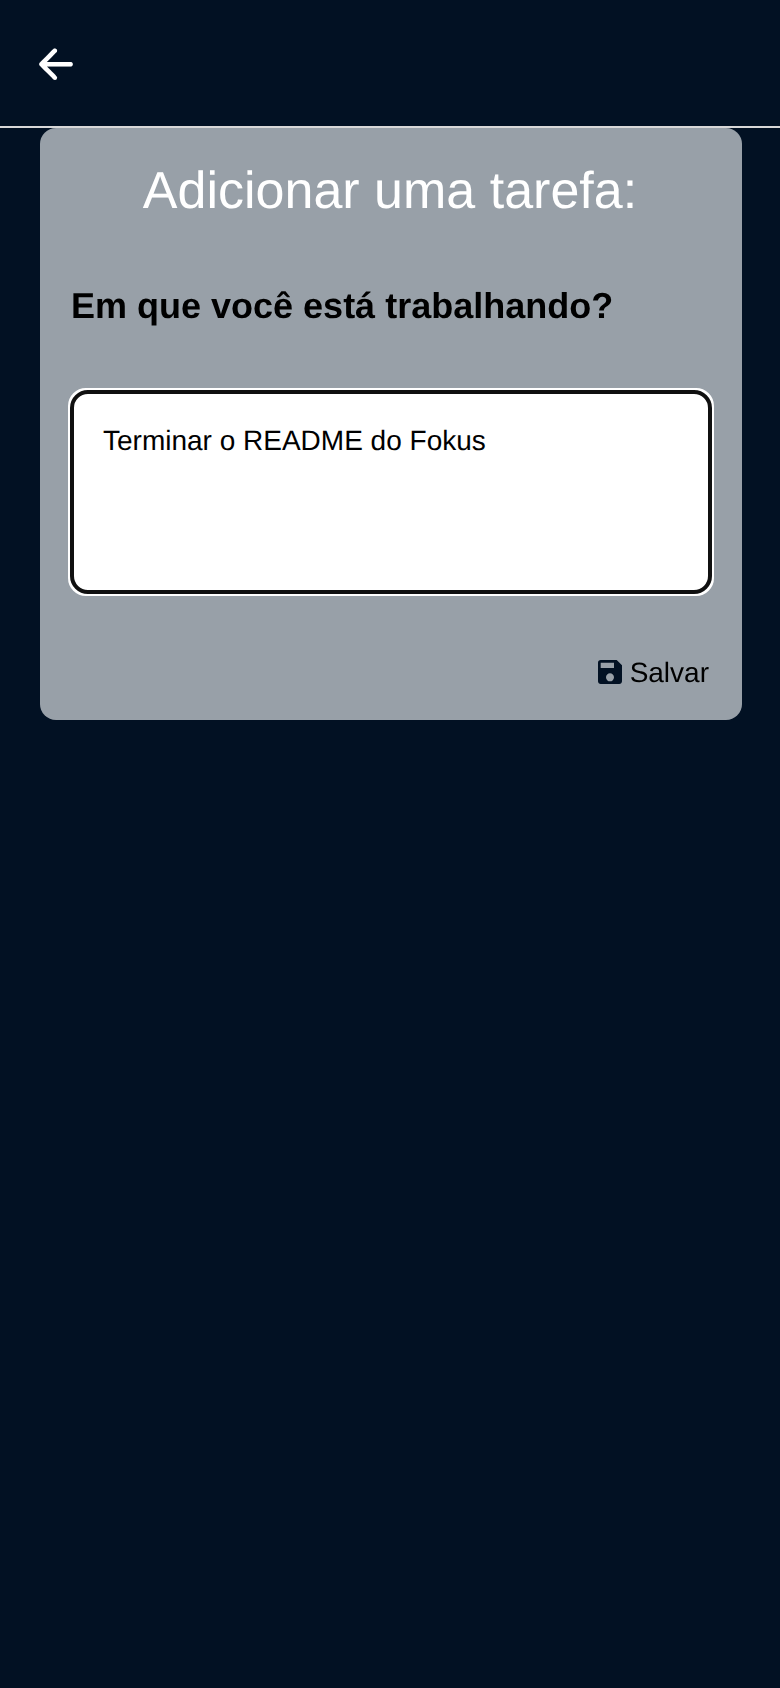
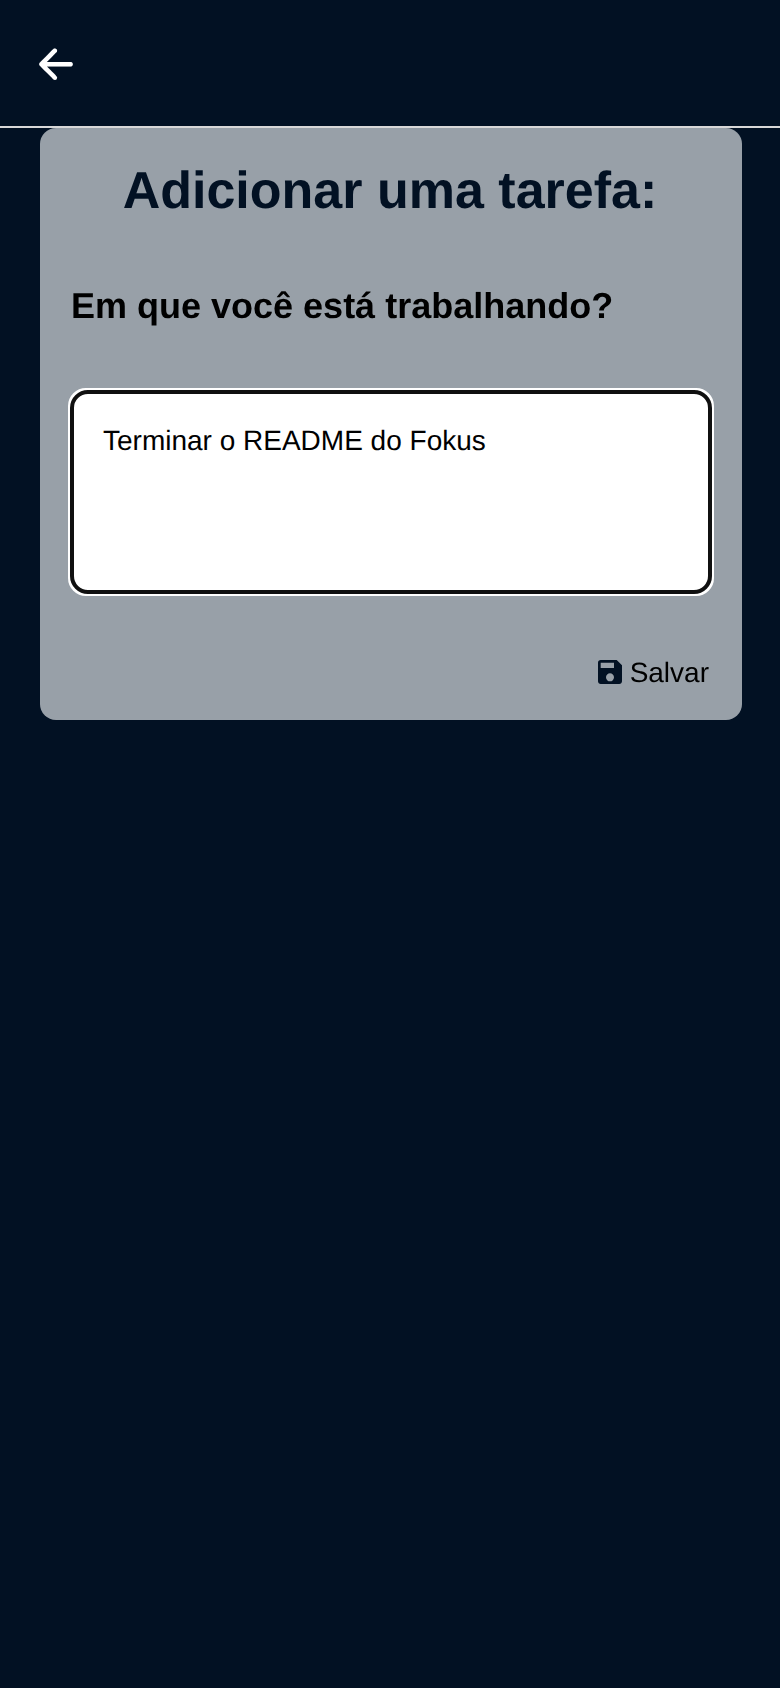
Improve form title contrast
The white title on the gray form card was hard to read; use the dark
background color in bold instead and refresh the README screenshot.

Changed region(s): [[0.1538, 0.0924, 0.8308, 0.1232]]

diff --git a/components/FormTask/index.jsx b/components/FormTask/index.jsx
@@ -62,9 +62,10 @@ const styles = StyleSheet.create({
     alignItems: "center",
   },
   text: {
-    color: colors.surfaceLight,
+    color: colors.background,
     textAlign: "center",
     fontSize: fontSizes.lg,
+    fontWeight: "bold",
   },
   inner: {
     backgroundColor: colors.muted,
